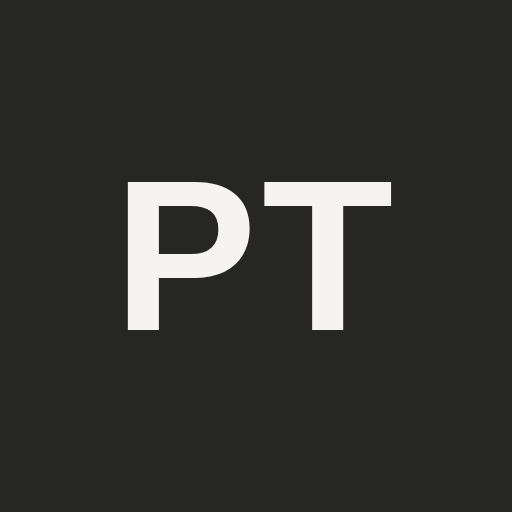
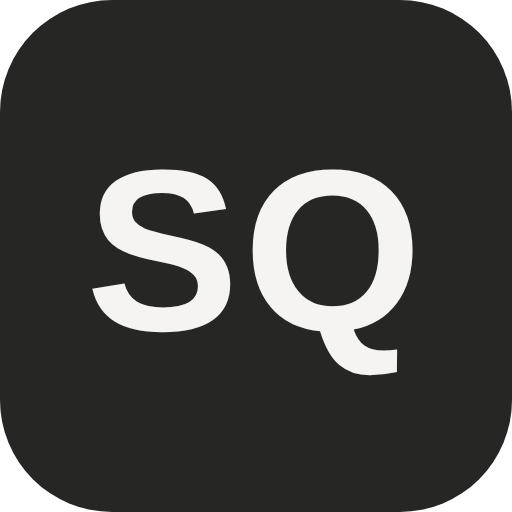
Rebranding para Squad: nome, sigla, ícones, textos
Claude-Session: https://claude.ai/code/session_01Tv5RRp9RgDvGHQPtZmfQYD

diff --git a/app-personais/app.html b/app-personais/app.html
@@ -3,13 +3,13 @@
 <head>
 <meta charset="utf-8">
 <meta name="viewport" content="width=device-width, initial-scale=1, viewport-fit=cover">
-<title>PT example</title>
+<title>Squad</title>
 <meta name="claude:viewport-fit-sides" content="cover">
 <meta name="theme-color" content="#ffffff" media="(prefers-color-scheme: light)">
 <meta name="theme-color" content="#1c1c1b" media="(prefers-color-scheme: dark)">
 <meta name="apple-mobile-web-app-capable" content="yes">
 <meta name="mobile-web-app-capable" content="yes">
-<meta name="apple-mobile-web-app-title" content="PT example">
+<meta name="apple-mobile-web-app-title" content="Squad">
 <meta name="apple-mobile-web-app-status-bar-style" content="default">
 <link rel="manifest" href="manifest.webmanifest">
 <link rel="icon" href="icon.svg" type="image/svg+xml">
@@ -1342,7 +1342,7 @@ document.addEventListener('click', ev => {
 function restaurar(txt) {
   let novo;
   try { novo = JSON.parse(txt); } catch (e) { toast('Backup inválido. Confira se colou o texto inteiro.'); return; }
-  if (!novo || !Array.isArray(novo.alunos) || !Array.isArray(novo.exercicios)) { toast('Esse texto não é um backup do PT example.'); return; }
+  if (!novo || !Array.isArray(novo.alunos) || !Array.isArray(novo.exercicios)) { toast('Esse texto não é um backup do Squad.'); return; }
   confirmar('Substituir todos os dados por este backup?', 'Restaurar', () => { db = novo; save(); location.hash = 'alunos'; route(); toast('Backup restaurado'); });
 }
 
@@ -1660,7 +1660,7 @@ function vNutri(a) {
 }
 /* ================= MARCA DO PERSONAL ================= */
 const MKEY = KEY + ':marca';
-const MARCA_PADRAO = { nome: 'PT example', sigla: 'PT', cor: '#262625', logo: '', tel: '', boasVindas: '', sub: 'Personal Trainer' };
+const MARCA_PADRAO = { nome: 'Squad', sigla: 'SQ', cor: '#262625', logo: '', tel: '', boasVindas: '', sub: 'Treino e nutrição' };
 function marca() {
   let l = {}; try { l = JSON.parse(localStorage.getItem(MKEY) || '{}'); } catch (e) {}
   return Object.assign({}, MARCA_PADRAO, l, db && db.marca || {});

diff --git a/app-personais/index.html b/app-personais/index.html
@@ -3,11 +3,11 @@
 <head>
 <meta charset="utf-8">
 <meta name="viewport" content="width=device-width, initial-scale=1, viewport-fit=cover">
-<title>PT example</title>
+<title>Squad</title>
 <meta name="claude:viewport-fit-sides" content="cover">
 <meta name="theme-color" content="#f5f4f2">
 <link rel="icon" href="icon.svg" type="image/svg+xml">
-<meta name="description" content="PT example: app para personal trainers. Planos de treino com vídeos do YouTube, peso de cada série e evolução do aluno.">
+<meta name="description" content="Squad: app para personal trainers. Planos de treino com vídeos do YouTube, peso de cada série e evolução do aluno.">
 <link rel="preconnect" href="https://fonts.googleapis.com">
 <link rel="preconnect" href="https://fonts.gstatic.com" crossorigin>
 <link rel="stylesheet" href="https://fonts.googleapis.com/css2?family=Barlow+Condensed:wght@600;700&family=Barlow:wght@400;500;600&display=swap">
@@ -185,7 +185,7 @@ footer .wrap { display: flex; gap: 12px; justify-content: space-between; flex-wr
 <body>
 <header class="top">
   <div class="wrap">
-    <a class="brand" href="#inicio"><span class="mark" aria-hidden="true">PT</span><b>PT example</b></a>
+    <a class="brand" href="#inicio"><span class="mark" aria-hidden="true">SQ</span><b>Squad</b></a>
     <nav aria-label="Seções">
       <a href="#funcionalidades">Funcionalidades</a>
       <a href="#pesos">Pesos e cargas</a>
@@ -347,7 +347,7 @@ TREINO A · Inferiores
 </main>
 
 <footer>
-  <div class="wrap"><span><b style="color:var(--fg)">PT example</b> · app para personal trainers</span><span>Modelo de demonstração. Nome e dados são fictícios.</span></div>
+  <div class="wrap"><span><b style="color:var(--fg)">Squad</b> · app para personal trainers</span><span>Modelo de demonstração. Nome e dados são fictícios.</span></div>
 </footer>
 </body>
 </html>

diff --git a/app-personais/README.md b/app-personais/README.md
@@ -1,4 +1,4 @@
-# PT example · app para personal trainers
+# Squad · app para personal trainers
 
 Webapp simples para personal trainers acompanharem alunos e planos de treino. Sem avatar, batalhas ou desafios.
 
